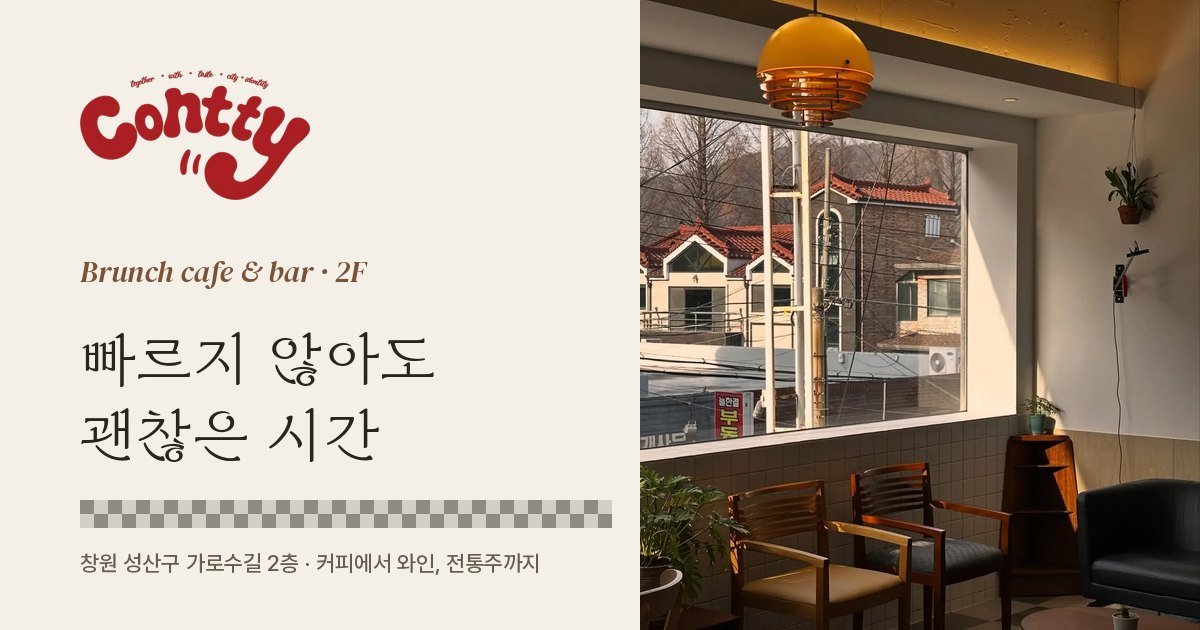
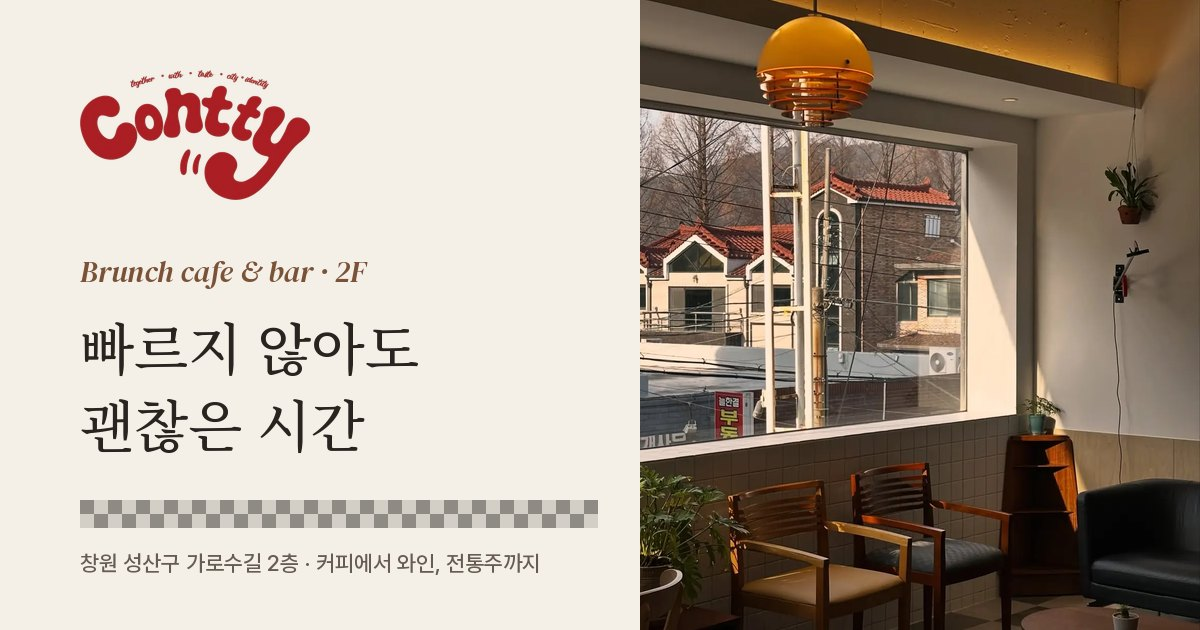
Add files via upload

Changed region(s): [[0.0617, 0.5127, 0.37, 0.6032], [0.0617, 0.6333, 0.3083, 0.754], [0.4933, 0.7841, 0.5242, 0.8444]]

diff --git a/index.html b/index.html
@@ -18,7 +18,7 @@
 <meta name="twitter:card" content="summary_large_image" />
 <meta name="theme-color" content="#F4EFE7" />
 <link rel="icon" href="favicon.png" type="image/png" />
-<link rel="preload" href="cn-diphylleia.woff2" as="font" type="font/woff2" crossorigin />
+<link rel="preload" href="cn-notoserif.woff2" as="font" type="font/woff2" crossorigin />
 <link rel="preload" href="cn-pretendard.woff2" as="font" type="font/woff2" crossorigin />
 <link rel="preload" href="cn-window.webp" as="image" />
 <!-- 시안 도메인 = contty-sample.lgt3232.workers.dev. 고객 인계 시 grep lgt3232 → canonical·og:url·og:image·JSON-LD url/image 치환 -->
@@ -39,7 +39,7 @@
 }
 </script>
 <style>
-@font-face{ font-family:"CN Head"; font-weight:400; font-display:swap; src:url("cn-diphylleia.woff2") format("woff2"); }
+@font-face{ font-family:"CN Head"; font-weight:500; font-display:swap; src:url("cn-notoserif.woff2") format("woff2"); }
 @font-face{ font-family:"CN Label"; font-style:italic; font-weight:400; font-display:swap; src:url("cn-dmserif-italic.woff2") format("woff2"); }
 @font-face{ font-family:"CN Sans"; font-weight:400 700; font-display:swap; src:url("cn-pretendard.woff2") format("woff2"); }
 
@@ -74,7 +74,7 @@ h1,h2,h3,p{ margin:0; }
 .alt{ background:var(--cream-2); }
 
 .label{ font-family:var(--label); font-style:italic; font-size:1.2rem; line-height:1.3; color:var(--wood); }
-.h2{ margin-top:12px; font-family:var(--head); font-weight:400; font-size:clamp(2rem,4.8vw,3rem); line-height:1.35; }
+.h2{ margin-top:12px; font-family:var(--head); font-weight:500; font-size:clamp(2rem,4.8vw,3rem); line-height:1.35; }
 .desc{ margin-top:18px; max-width:32em; color:var(--soft); font-size:1.03rem; }
 
 /* 체크 바닥 띠 (섹션 사이 얇게 한 줄) */
@@ -98,7 +98,7 @@ h1,h2,h3,p{ margin:0; }
 /* 히어로 */
 .hero .wrap{ display:grid; gap:36px; padding:44px 0 76px; align-items:center; }
 @media (min-width:900px){ .hero .wrap{ grid-template-columns:minmax(0,5fr) minmax(0,6fr); gap:72px; padding:80px 0 120px; } }
-.hero h1{ margin-top:16px; font-family:var(--head); font-weight:400; font-size:clamp(2.5rem,6.4vw,4.2rem); line-height:1.3; }
+.hero h1{ margin-top:16px; font-family:var(--head); font-weight:500; font-size:clamp(2.5rem,6.4vw,4.2rem); line-height:1.3; }
 .hero .lead{ margin-top:22px; max-width:26em; color:var(--soft); font-size:1.05rem; }
 .hero .cta{ display:flex; flex-wrap:wrap; gap:10px; margin-top:30px; }
 .hero figure{ margin:0; }
@@ -160,7 +160,7 @@ h1,h2,h3,p{ margin:0; }
 .foot{ background:var(--dark); color:var(--cream); text-align:center; padding:60px 0 calc(110px + env(safe-area-inset-bottom)); font-size:.88rem; }
 @media (min-width:900px){ .foot{ padding:76px 0; } }
 .foot img{ width:140px; margin:0 auto 18px; }
-.foot .line{ font-family:var(--head); font-size:1.3rem; color:var(--amber); }
+.foot .line{ font-family:var(--head); font-weight:500; font-size:1.3rem; color:var(--amber); }
 .foot p + p{ margin-top:6px; }
 .foot .muted{ color:#BEB4A8; }
 .foot a{ text-decoration:underline; text-underline-offset:3px; }
